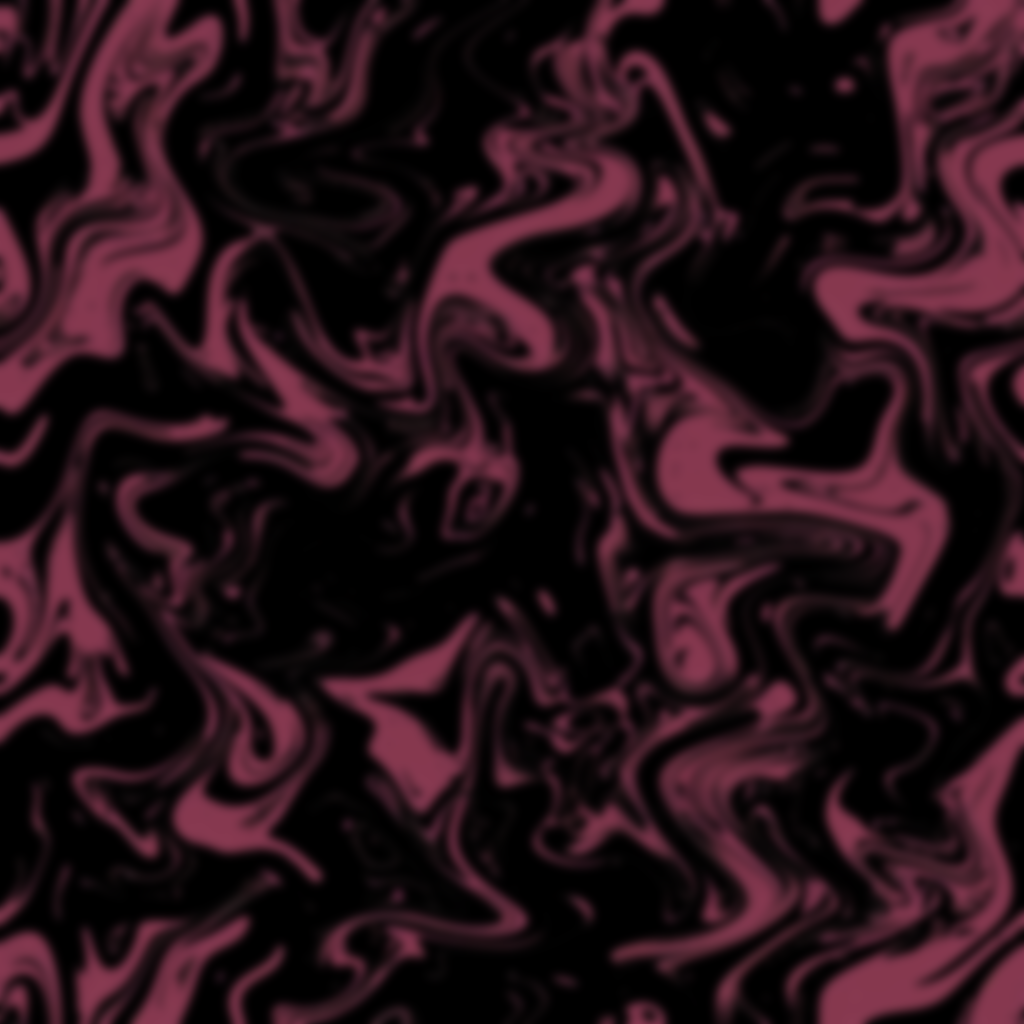
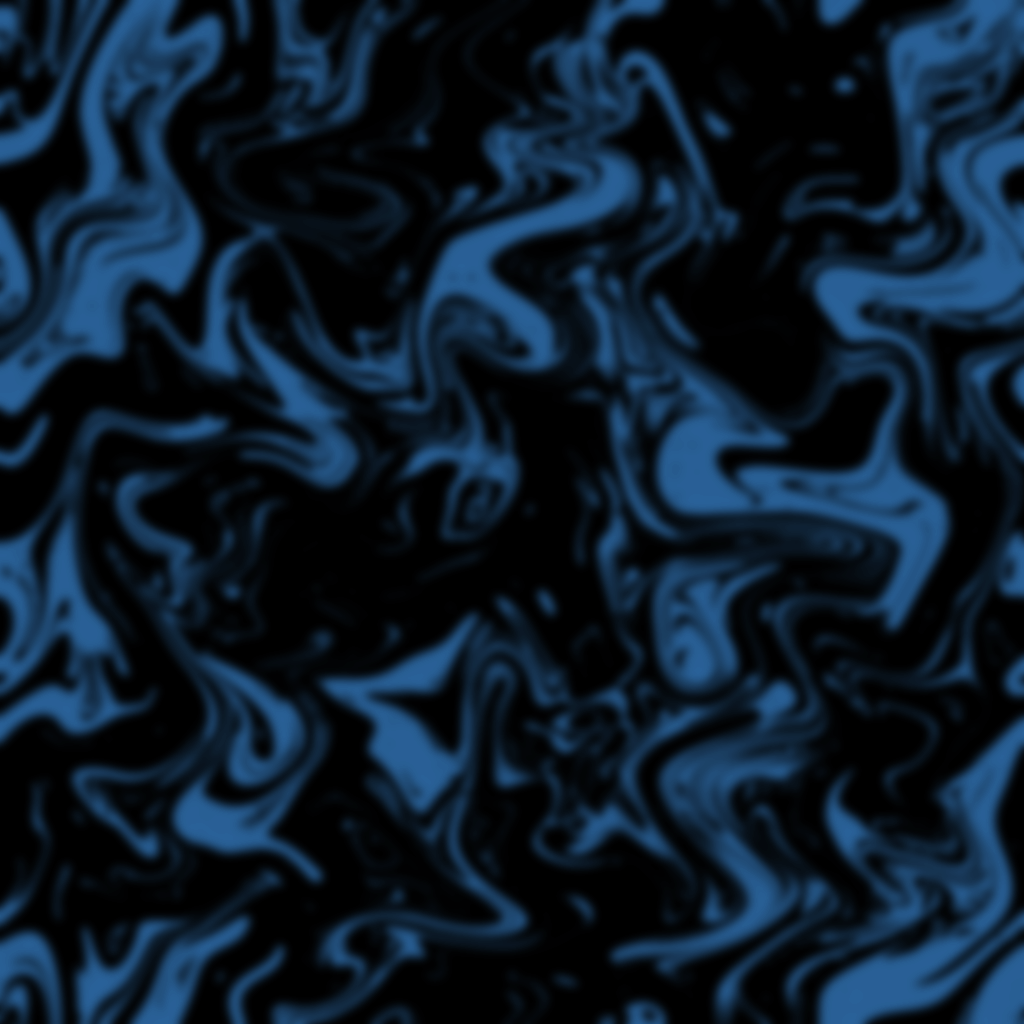
changing color theme.

diff --git a/Frontend/src/ChatBox.js b/Frontend/src/ChatBox.js
@@ -23,13 +23,16 @@ function ChatBox() {
       ws.onmessage = (event) => {
         try {
           const data = JSON.parse(event.data);
-      
-          if (data.type === 'initialLogs' && Array.isArray(data.data)) {
+
+          if (data.type === "initialLogs" && Array.isArray(data.data)) {
             setMessages(
-              data.data.map((log) => `${log.author}: ${log.content}`),
+              data.data.map((log) => `${log.author}: ${log.content}`)
             );
           } else if (data.text && data.timestamp) {
-            setMessages((prevMessages) => [...prevMessages, `${data.text} at ${data.timestamp}`]);
+            setMessages((prevMessages) => [
+              ...prevMessages,
+              `${data.text} at ${data.timestamp}`,
+            ]);
           } else {
             console.log("Received JSON object of different type", data);
           }
@@ -68,35 +71,34 @@ function ChatBox() {
 
   return (
     <div className="flex flex-col h-full chatbox">
-<div className="flex flex-col justify-end flex-grow overflow-auto scrollbar-hide my-4 mx-auto p-4 w-full max-w-4xl bg-gray-900 rounded-lg">
-      {messages.map((message, index) => (
-        <div key={index} className="mb-2 last:mb-0">
-          <div className="inline-block rounded-lg bg-pink-600 px-4 py-2 text-white shadow">
-            {message}
+      <div className="flex flex-col justify-end flex-grow overflow-auto scrollbar-hide my-4 mx-auto p-4 w-full max-w-4xl bg-gray-900 rounded-lg">
+        {messages.map((message, index) => (
+          <div key={index} className="mb-2 last:mb-0">
+            <div className="inline-block rounded-lg bg-pink-800 px-4 py-2 text-white shadow">
+              {message}
+            </div>
           </div>
-        </div>
-      ))}
-      <div ref={messagesEndRef} />
-    </div>
-    <form onSubmit={sendMessage} className="mb-4 mx-auto w-full max-w-4xl">
-      <div className="flex gap-2">
-        <input
-          type="text"
-          className="flex-grow rounded-lg border-0 bg-gray-900 px-4 py-2 text-white placeholder-gray-400 focus:ring-2 focus:ring-pink-500"
-          placeholder="Type your message..."
-          value={input}
-          onChange={(e) => setInput(e.target.value)}
-        />
-        <button
-          type="submit"
-          className="rounded-lg bg-pink-600 px-6 py-2 text-white hover:bg-pink-700 focus:outline-none focus:ring-2 focus:ring-pink-500"
-        >
-          Send
-        </button>
+        ))}
+        <div ref={messagesEndRef} />
       </div>
-    </form>
-  </div>
-  
+      <form onSubmit={sendMessage} className="mb-4 mx-auto w-full max-w-4xl">
+        <div className="flex gap-2">
+          <input
+            type="text"
+            className="flex-grow rounded-lg border-0 bg-gray-900 px-4 py-2 text-white placeholder-gray-400 focus:ring-2 focus:ring-pink-500"
+            placeholder="Type your message..."
+            value={input}
+            onChange={(e) => setInput(e.target.value)}
+          />
+          <button
+            type="submit"
+            className="rounded-lg bg-pink-800 px-6 py-2 text-white hover:bg-pink-500 focus:outline-none focus:ring-2 focus:ring-pink-500"
+          >
+            Send
+          </button>
+        </div>
+      </form>
+    </div>
   );
 }
 
